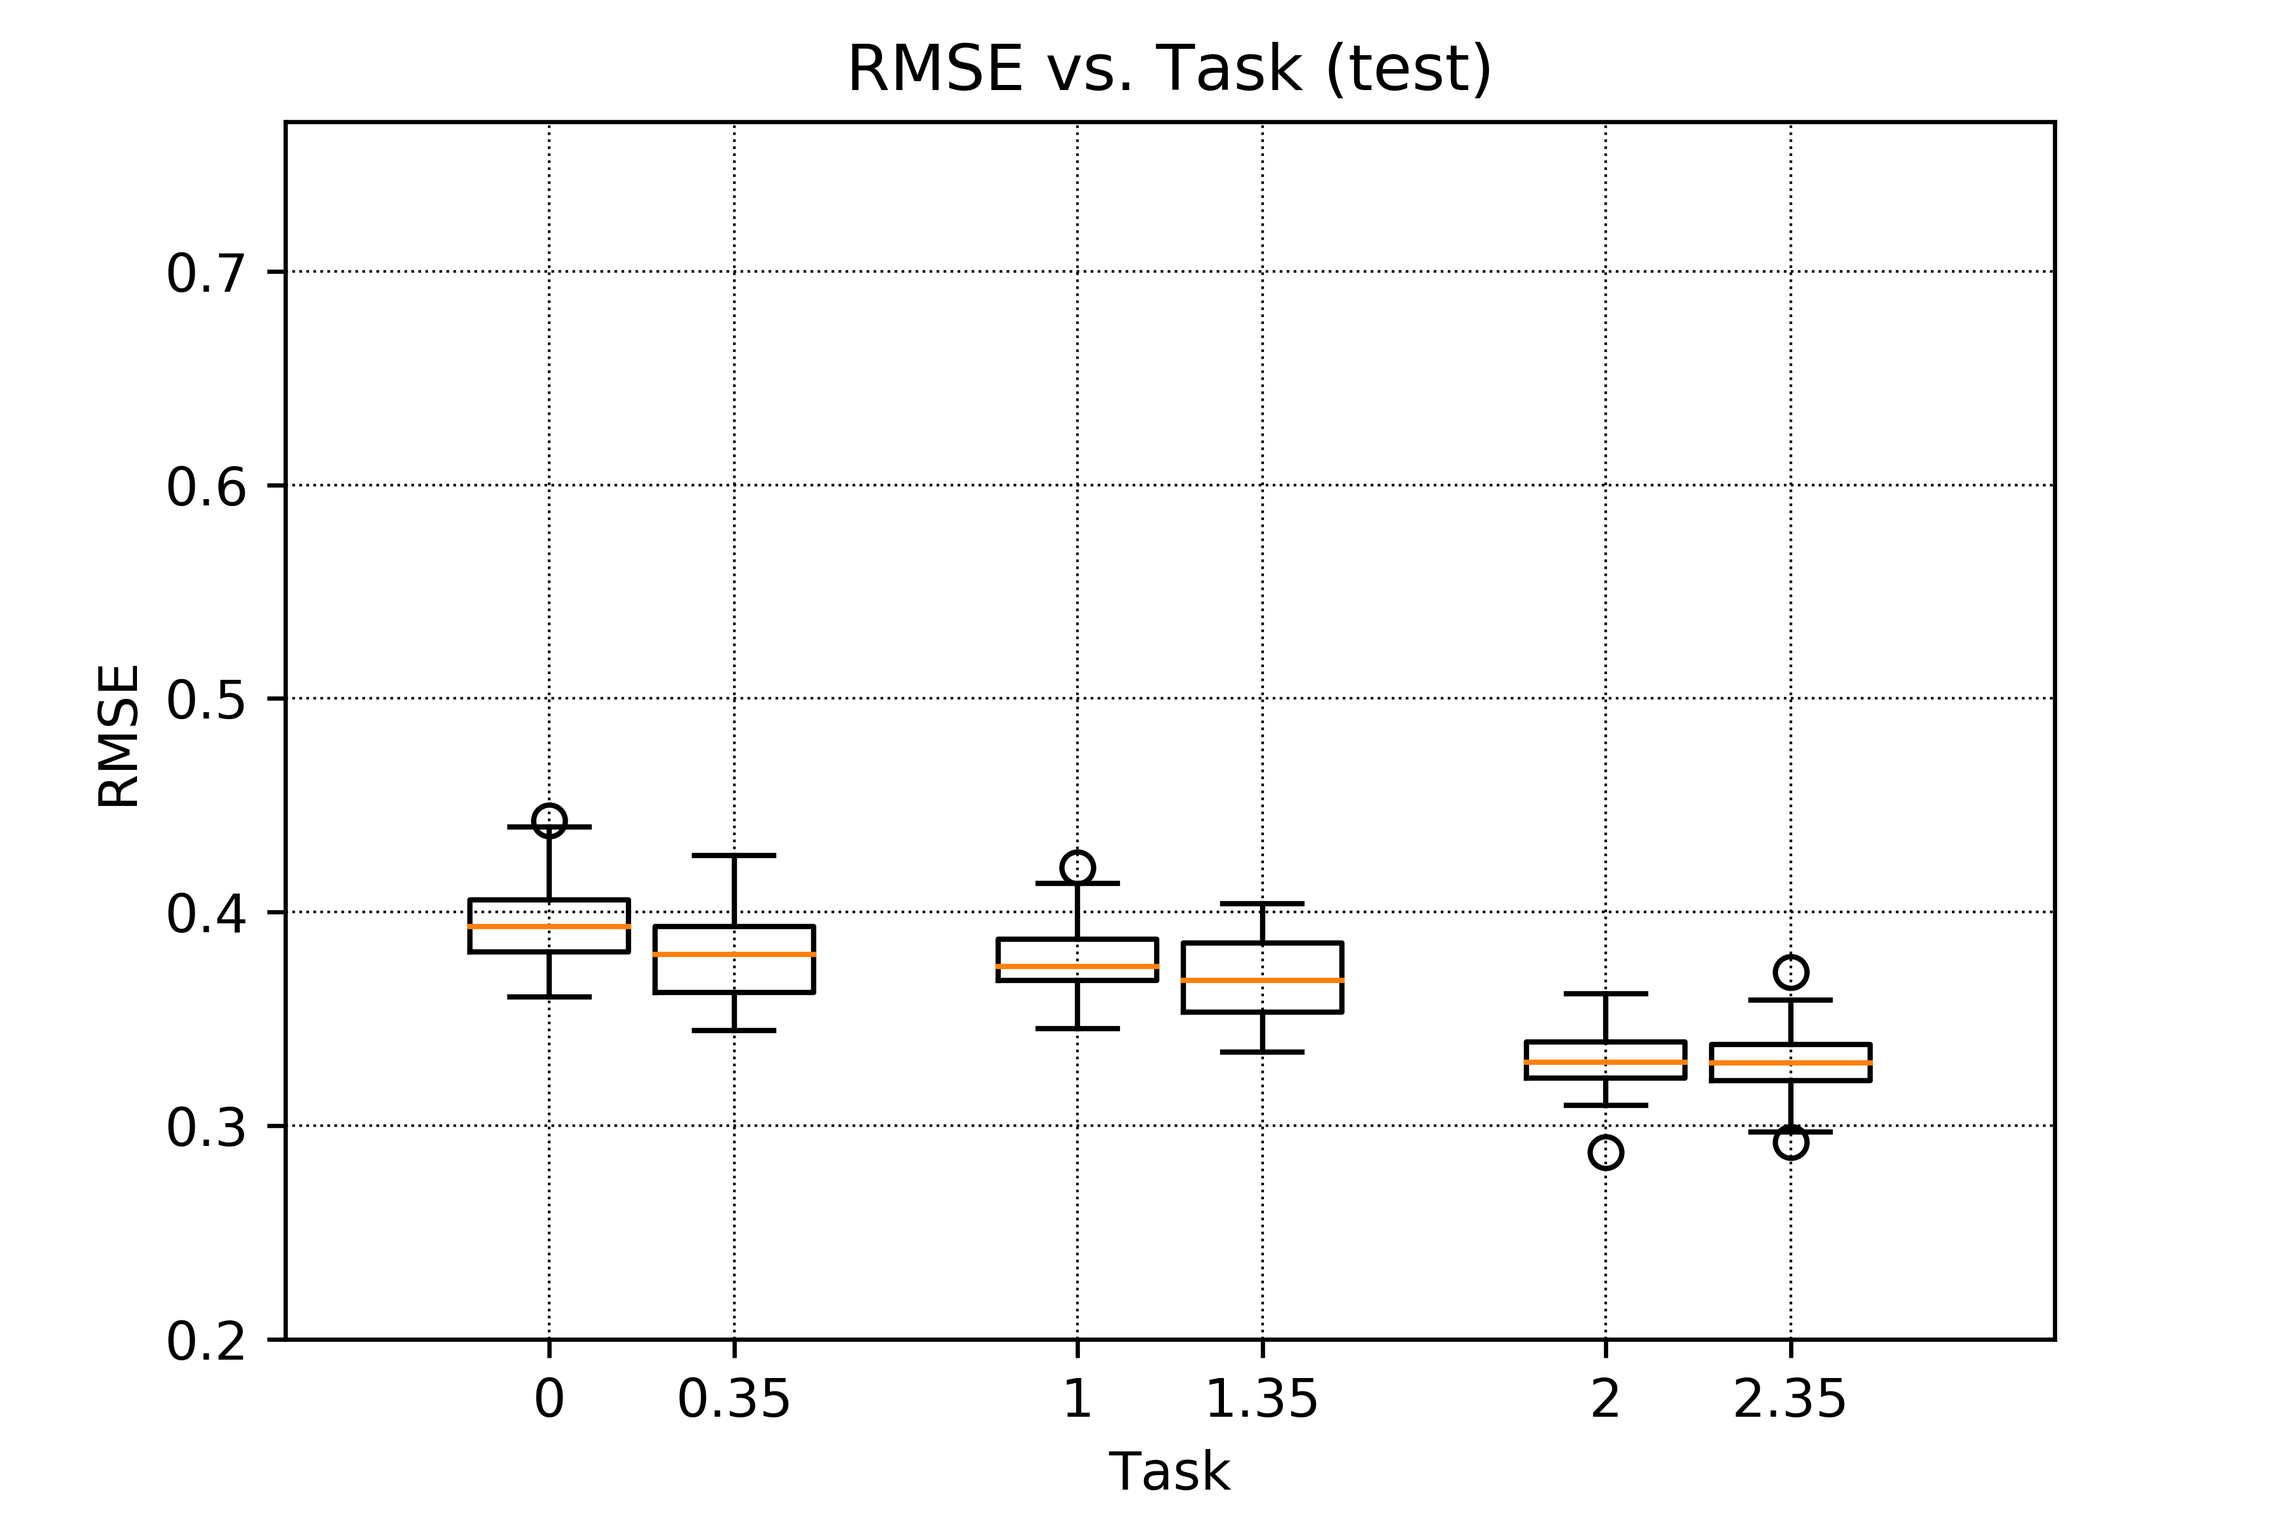
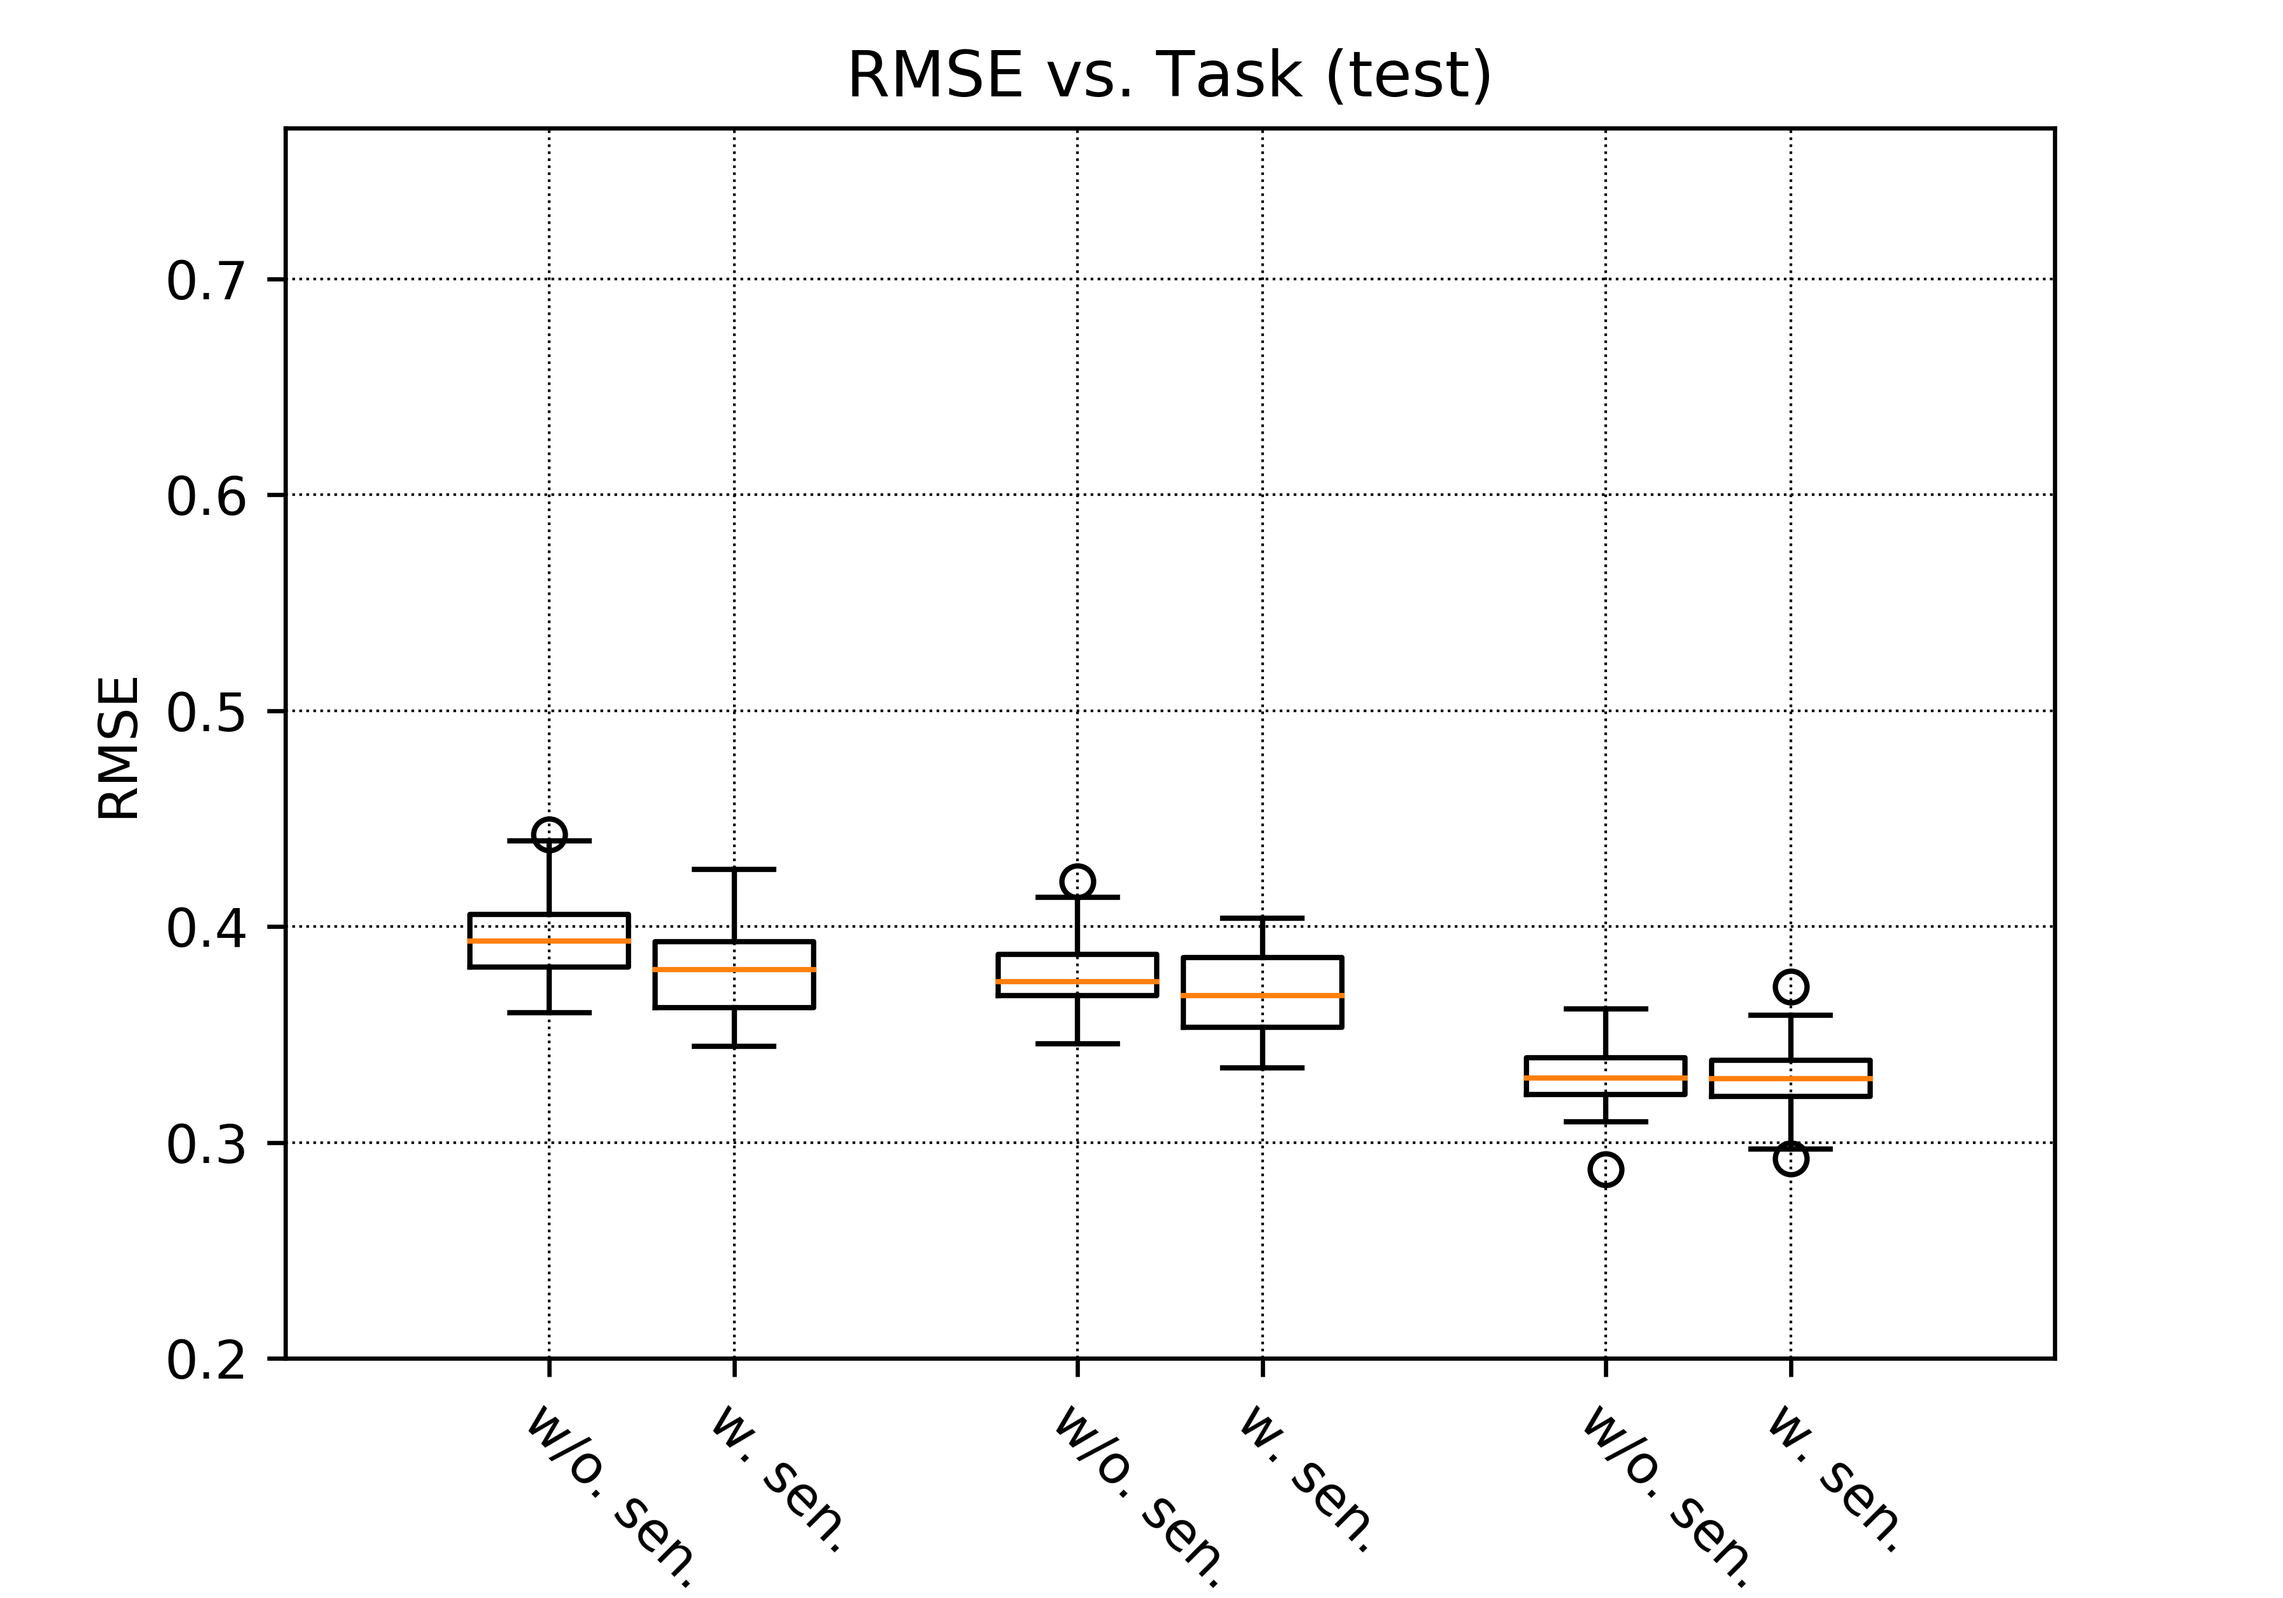
video capability for is updated on show_results_3phases_2tasks_cur_multiANN_par.py and results are updated

diff --git a/show_results_3phases_2tasks_cur_multiANN_par.py b/show_results_3phases_2tasks_cur_multiANN_par.py
@@ -8,12 +8,12 @@ ANN_structures = ["S","M"]
 task_types = ["cyclical", "p2p"]
 task_type = task_types[0]
 curriculum = curriculums[0]
-ANN_structure = ANN_structures[0]
+ANN_structure = ANN_structures[1]
 number_of_refinements = 8
 number_of_all_runs = 50
 
 fig1, axes1 = plt.subplots(nrows=1, ncols=3, figsize=(12, 4))
-fig2, axes2 = plt.subplots(nrows=1, ncols=1, figsize=(6, 4))
+fig2, axes2 = plt.subplots(nrows=1, ncols=1, figsize=(6, 4.2))
 all_sensory_cases = [True, False]
 color = "C0"
 for use_sensory in all_sensory_cases:
@@ -25,6 +25,7 @@ for use_sensory in all_sensory_cases:
 		linestyle = ".:"
 		hatch = "//"
 		experiment_ID = "wo_sensory_"+ANN_structure+"_ANN_"+task_type+curriculum
+		color= "C1"
 
 	if curriculum == "_E2H":
 		MuJoCo_model_names = ["tendon_quadruped_ws_inair.xml", "tendon_quadruped_ws_onfloor.xml", "tendon_quadruped_ws_onfloorloaded.xml"]
@@ -78,33 +79,41 @@ for use_sensory in all_sensory_cases:
 	axes2.boxplot(task_errors_all, positions=positions)
 	axes2.set_title('RMSE vs. Task (test)')
 	axes2.set_xlabel('Task')
+	axes2.set_xticklabels(["w. sen.","w. sen.","w. sen.","w/o. sen.","w/o. sen.","w/o. sen."])
+	# Rotate the tick labels and set their alignment.
+	plt.setp(axes2.get_xticklabels(), rotation=-45, ha="left",
+	         rotation_mode="anchor")
 	axes2.set_ylabel('RMSE')
 	axes2.grid(color='k', linestyle=':', linewidth=.5)
 	axes2.set_ylim(0.2, .77)
-	fig2.subplots_adjust(bottom=0.12, top=.92)
+	fig2.subplots_adjust(bottom=0.15, top=.92)
 
-save_figures = True
+save_figures = False
 if save_figures:
 	dpi = 600
 	# fig1.subplots_adjust(left=.06, bottom=.12, right=.96, top=.92, wspace=.30, hspace=.20)
 	fig1.savefig("./results/{}/{}_figure1.png".format(experiment_ID_base,experiment_ID), dpi=dpi)
 	#fig2.subplots_adjust(bottom=.12, top=.92)
 	fig2.savefig("./results/{}/{}_figure2.png".format(experiment_ID_base,experiment_ID), dpi=dpi)
-plt.show(block=True)
+plt.show(block=False)
 
-# show_video = False
-# use_sensory = True
-# task_type = "p2p"
-# if use_sensory:
-# 	experiment_ID_base2 = experiment_ID_base+"w_sensory_"
-# else:
-# 	experiment_ID_base2 = experiment_ID_base+"wo_sensory_"
-# experiment_ID = experiment_ID_base2 + task_type
 
-# run_no = 0
-# MuJoCo_model_names = ["tendon_quadruped_ws_inair.xml", "tendon_quadruped_ws_onfloor.xml", "tendon_quadruped_ws_onfloorloaded.xml"]
-# if show_video:
-# 	for MuJoCo_model_name , ii in zip(MuJoCo_model_names, range(len(MuJoCo_model_names))):
-# 		tmp = test_a_task(MuJoCo_model_name, experiment_ID, run_no, use_sensory=use_sensory,  Mj_render=True, task_type = task_type)
+dt=.005
+show_video = True
+use_sensory = True
+task_type = task_types[0]
+curriculum = curriculums[0]
+ANN_structure = ANN_structures[1]
+actuation_type = "TD"
+if use_sensory:
+	experiment_ID = "w_sensory_"+ANN_structure+"_ANN_"+task_type+curriculum
+else:
+	experiment_ID = "wo_sensory_"+ANN_structure+"_ANN_"+task_type+curriculum
+save_log_path = experiment_ID_base+"/"+experiment_ID
+run_no = 0
+MuJoCo_model_names = ["tendon_quadruped_ws_inair.xml", "tendon_quadruped_ws_onfloor.xml", "tendon_quadruped_ws_onfloorloaded.xml"]
+if show_video:
+	for MuJoCo_model_name , ii in zip(MuJoCo_model_names, range(len(MuJoCo_model_names))):
+		tmp = test_a_task(MuJoCo_model_name, save_log_path, run_no, Mj_render=True, use_sensory=use_sensory, task_type=task_type, ANN_structure=ANN_structure, dt=dt, actuation_type=actuation_type)
 
 #import pdb; pdb.set_trace()
